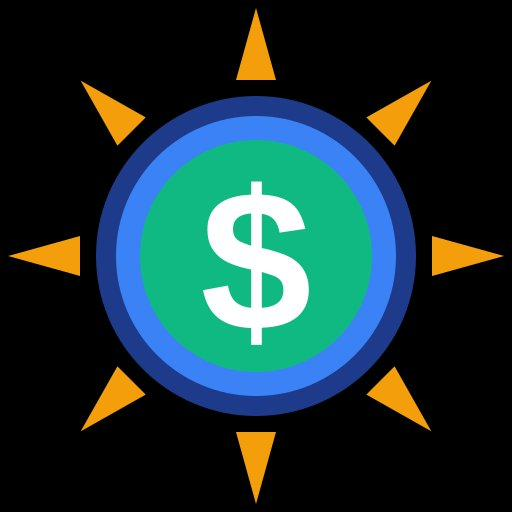
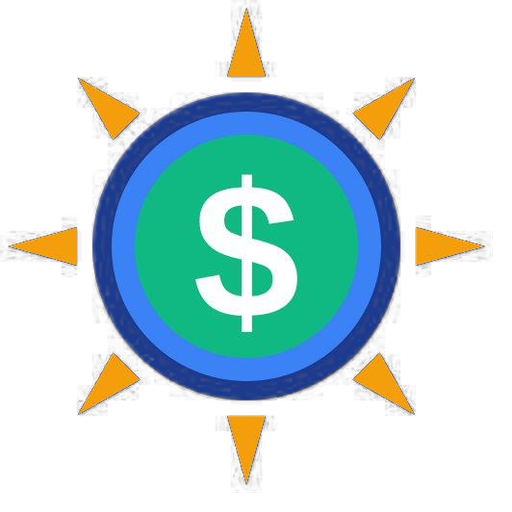
Add files via upload

diff --git a/components/AccountForm.tsx b/components/AccountForm.tsx
@@ -23,6 +23,9 @@ export interface AccountInitial {
   workplaceName?: string;
   workplaceAddress?: string;
   workplacePhone?: string;
+  /** Read-only display in the protected card; not editable from /account. */
+  handle?: string;
+  paymentApps?: { app: PaymentApp; appHandle: string }[];
   // tipper-only
   usesApps?: PaymentApp[];
 }
@@ -333,14 +336,66 @@ export function AccountForm({ initial }: { initial: AccountInitial }) {
         </fieldset>
       )}
 
-      {/* Secured edits live elsewhere — set expectation, don't dead-end */}
-      <p className="rounded-xl border border-line bg-surface px-4 py-3 text-xs leading-relaxed text-ink-faint">
-        {isRecipient ? (
-          <>Your <span className="font-medium text-ink-dim">handle</span> and your <span className="font-medium text-ink-dim">payout apps</span> are changed through a secured, text-verified flow — coming next.</>
-        ) : (
-          <>Your email and phone are your sign-in identity and aren&rsquo;t edited here.</>
-        )}
-      </p>
+      {/* Protected payout details — prominent on purpose. Handle + payment-app
+          editing is deliberately NOT exposed here (A2 crown-jewel attack: an
+          attacker with a stolen session could redirect a worker's tips). Edits
+          ship behind SMS step-up. Until then, this card confirms what's set so
+          recipients can verify their setup without a phantom-broken edit UI. */}
+      {isRecipient ? (
+        <section className="rounded-2xl border-2 border-jade-100 bg-jade-50/40 p-5 md:p-6">
+          <div className="flex items-start gap-3">
+            <div className="mt-0.5 flex h-8 w-8 flex-none items-center justify-center rounded-full bg-jade-100 text-jade-700">
+              <svg className="h-4 w-4" viewBox="0 0 24 24" fill="none" stroke="currentColor" strokeWidth="2.2" aria-hidden>
+                <rect x="5" y="11" width="14" height="10" rx="2" />
+                <path d="M8 11V7a4 4 0 0 1 8 0v4" />
+              </svg>
+            </div>
+            <div className="min-w-0 flex-1">
+              <h3 className="font-mono text-xs font-semibold uppercase tracking-wider2 text-jade-700">
+                Protected · how tips reach you
+              </h3>
+              <p className="mt-1.5 text-sm leading-relaxed text-ink-dim">
+                Your <span className="font-medium text-ink">handle</span> and{' '}
+                <span className="font-medium text-ink">payout apps</span> can only be changed through an
+                SMS-verified step, so a stolen browser session can&rsquo;t silently redirect your tips.
+                Secured edits are shipping next — for now, reply to your welcome text if you need a change.
+              </p>
+
+              {initial.handle ? (
+                <div className="mt-4 rounded-xl border border-jade-100 bg-paper px-4 py-3">
+                  <p className="font-mono text-[10px] font-medium uppercase tracking-wider2 text-ink-faint">
+                    Your handle
+                  </p>
+                  <p className="mt-0.5 font-mono text-base text-ink">@{initial.handle}</p>
+                </div>
+              ) : null}
+
+              {initial.paymentApps && initial.paymentApps.length > 0 ? (
+                <div className="mt-2 rounded-xl border border-jade-100 bg-paper px-4 py-3">
+                  <p className="font-mono text-[10px] font-medium uppercase tracking-wider2 text-ink-faint">
+                    Payout apps
+                  </p>
+                  <ul className="mt-1 space-y-1">
+                    {initial.paymentApps.map((p) => (
+                      <li key={p.app} className="flex flex-wrap items-baseline justify-between gap-x-3 gap-y-0.5 font-mono text-sm">
+                        <span className="text-ink-dim">{PAYMENT_APP_META[p.app].label}</span>
+                        <span className="text-ink">
+                          {PAYMENT_APP_META[p.app].handlePrefix}
+                          {p.appHandle}
+                        </span>
+                      </li>
+                    ))}
+                  </ul>
+                </div>
+              ) : null}
+            </div>
+          </div>
+        </section>
+      ) : (
+        <p className="rounded-xl border border-line bg-surface px-4 py-3 text-xs leading-relaxed text-ink-faint">
+          Your email and phone are your sign-in identity and aren&rsquo;t edited here.
+        </p>
+      )}
 
       {errors.form && (
         <p className={cn('rounded-xl border px-4 py-3 text-sm', ERROR, ERROR_BORDER)}>{errors.form}</p>

diff --git a/app/account/page.tsx b/app/account/page.tsx
@@ -14,7 +14,7 @@ export const dynamic = 'force-dynamic';
 
 export default async function AccountPage() {
   const session = await getSession();
-  if (!session) redirect('/');
+  if (!session) return <SignedOutLanding />;
   if (session.role === 'business') redirect('/admin'); // admins use /admin, not /account
 
   let initial: AccountInitial;
@@ -38,6 +38,9 @@ export default async function AccountPage() {
       workplaceName: r.workplaceName ?? '',
       workplaceAddress: r.workplaceAddress ?? '',
       workplacePhone: r.workplacePhone ?? '',
+      // Read-only display in the protected card — confirms the handle without
+      // offering an edit path (handle/payout swap = A2 crown jewel).
+      handle: r.handle ?? '',
     };
   } else {
     const t = await getTipperById(session.userId);
@@ -83,5 +86,48 @@ export default async function AccountPage() {
         <AccountForm initial={initial} />
       </main>
     </>
+  );
+}
+
+/**
+ * Friendly landing when an unauthenticated visitor hits /account — replaces
+ * the prior silent redirect-to-home (which left users baffled when the
+ * Account button "did nothing"). Two clear CTAs by track, plus a nod that
+ * existing users should use the magic link from their SMS.
+ */
+function SignedOutLanding() {
+  return (
+    <main className="mx-auto max-w-lg px-5 py-16 md:py-24">
+      <div className="rounded-2xl border border-line bg-paper px-6 py-10 text-center md:px-10 md:py-12">
+        <p className="font-mono text-xs font-medium uppercase tracking-wider2 text-accent">
+          Pop Tips
+        </p>
+        <h1 className="mt-2 font-display text-3xl font-medium leading-tight tracking-tightest text-ink">
+          You&rsquo;re not signed in yet.
+        </h1>
+        <p className="mt-3 text-base leading-relaxed text-ink-dim">
+          Accounts are free. Pick the one that fits.
+        </p>
+        <div className="mt-7 grid gap-3">
+          <Link
+            href="/signup-recipient"
+            className="inline-flex w-full items-center justify-center gap-2 rounded-full bg-jade-500 px-6 py-3.5 font-display text-base font-medium text-paper shadow-lift transition-all duration-200 ease-out-soft hover:-translate-y-px hover:bg-jade-700 active:scale-[0.98]"
+          >
+            I want to receive tips
+            <span aria-hidden>→</span>
+          </Link>
+          <Link
+            href="/signup-tipper"
+            className="inline-flex w-full items-center justify-center gap-2 rounded-full bg-coral-500 px-6 py-3.5 font-display text-base font-medium text-paper shadow-lift transition-all duration-200 ease-out-soft hover:-translate-y-px hover:bg-coral-700 active:scale-[0.98]"
+          >
+            I want to tip
+            <span aria-hidden>→</span>
+          </Link>
+        </div>
+        <p className="mt-7 font-mono text-[11px] uppercase tracking-wider2 text-ink-faint">
+          Already signed up? Use the secure link we texted you.
+        </p>
+      </div>
+    </main>
   );
 }

diff --git a/components/HeroPop.tsx b/components/HeroPop.tsx
@@ -30,7 +30,7 @@ export function HeroPop({ size = 300, className }: Props) {
         role="img"
         aria-label="Pop Tips — a $20 tip"
       >
-        {/* The brand icon */}
+        {/* The brand icon (transparent PNG) */}
         {/* eslint-disable-next-line @next/next/no-img-element */}
         <img
           src="/poptipsicon512.png"
@@ -41,22 +41,32 @@ export function HeroPop({ size = 300, className }: Props) {
           draggable={false}
         />
 
-        {/* $20 centered overlay */}
+        {/* $20 chip — a cream paper disc that visually replaces the icon's
+            green center, with ink "$20" inside. Solves the prior white-on-
+            white legibility problem. The icon's outer gold rays + blue ring
+            still preserve the brand mark. */}
         <div
           aria-hidden
           className="hero-amt pointer-events-none absolute inset-0 flex items-center justify-center"
         >
-          <span
-            className="font-display font-semibold italic text-white"
+          <div
+            className="flex aspect-square items-center justify-center rounded-full bg-paper"
             style={{
-              fontSize: size * 0.34,
-              letterSpacing: '-0.02em',
-              textShadow:
-                '0 2px 10px rgba(0,0,0,0.35), 0 0 28px rgba(0,0,0,0.22), 0 1px 0 rgba(0,0,0,0.25)',
+              width: '52%',
+              boxShadow: '0 6px 22px rgba(14,20,32,0.18), 0 0 0 1px rgba(14,20,32,0.06)',
             }}
           >
-            $20
-          </span>
+            <span
+              className="font-display font-semibold italic text-ink"
+              style={{
+                fontSize: size * 0.19,
+                letterSpacing: '-0.02em',
+                lineHeight: 1,
+              }}
+            >
+              $20
+            </span>
+          </div>
         </div>
       </div>
 

diff --git a/components/DashboardHeader.tsx b/components/DashboardHeader.tsx
@@ -12,7 +12,7 @@ export function AccountLink() {
   return (
     <Link
       href="/account"
-      className="inline-flex items-center gap-1.5 rounded-full border border-line bg-paper px-4 py-2 font-mono text-xs font-medium uppercase tracking-wider2 text-ink-dim transition-colors duration-200 hover:border-accent hover:text-accent"
+      className="inline-flex items-center gap-1.5 rounded-full bg-gold-500 px-4 py-2 font-mono text-xs font-semibold uppercase tracking-wider2 text-ink shadow-lift transition-all duration-200 ease-out-soft hover:-translate-y-0.5 hover:bg-gold-700 hover:text-paper active:scale-[0.98]"
     >
       Account
       <span aria-hidden>→</span>